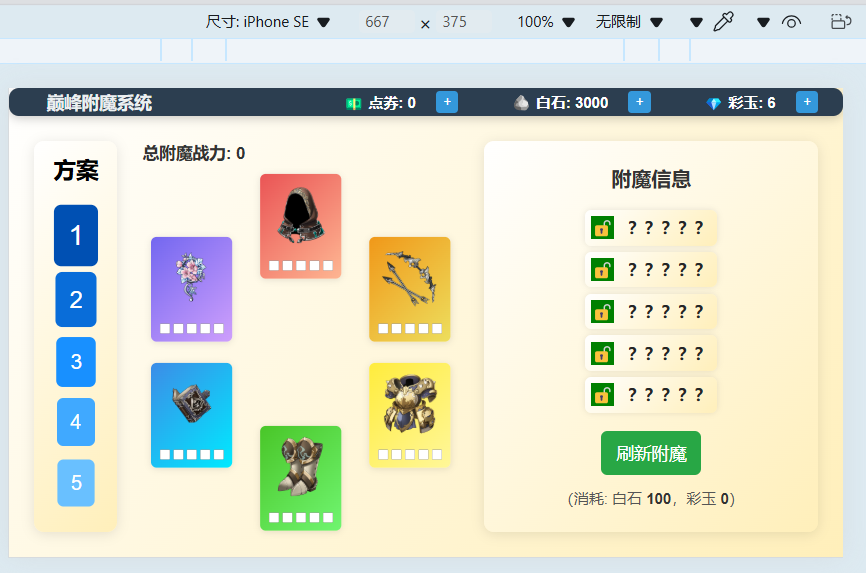
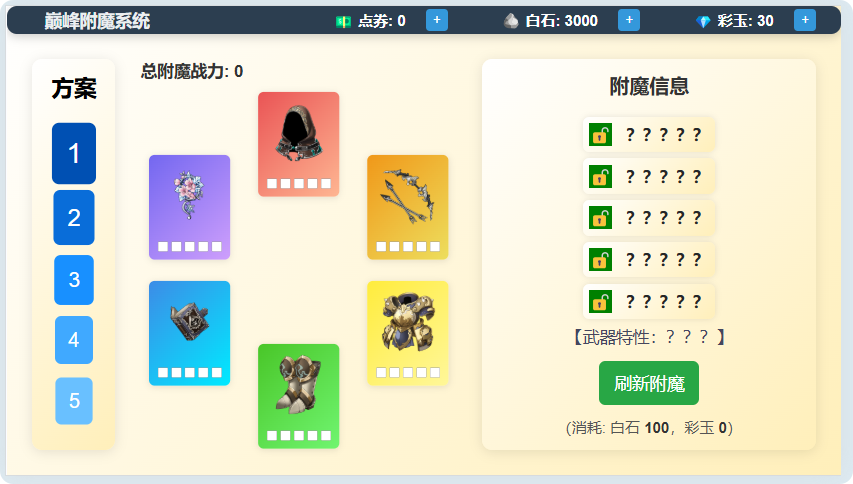
ReadMe更新

diff --git a/README.md b/README.md
@@ -11,13 +11,11 @@
 
 ![初始界面](./README.assets/初始界面.png)
 
+### 未锁定红/橙品质词条【可选】
+
+![未锁定高品质词条](./README.assets/未锁定高品质词条.png)
 
 
-
-
-### 未锁定红/橙品质词条
-
-![未锁定高品质词条词条](./README.assets/未锁定高品质词条.png)
 
 ### 购买资源界面
 
@@ -31,6 +29,8 @@
 
 ![附魔展示](./README.assets/附魔展示.png)
 
+
+
 ### 其他功能
 
 增加了选择提示锁定稀有度词条的功能【点击左上角的巅峰附魔系统】
@@ -41,9 +41,15 @@
 
 ![词条信息统计](./README.assets/词条信息统计.png)
 
-### 代办功能
+### 待办功能
 
-更多的附魔词条（百分比类型）
+【✔】更多的附魔词条（百分比类型）
+
+【✔】刷新后概率增加武器属性
+
+【❌】更准确的附魔战力
+
+
 
 ### 参考资料
 
